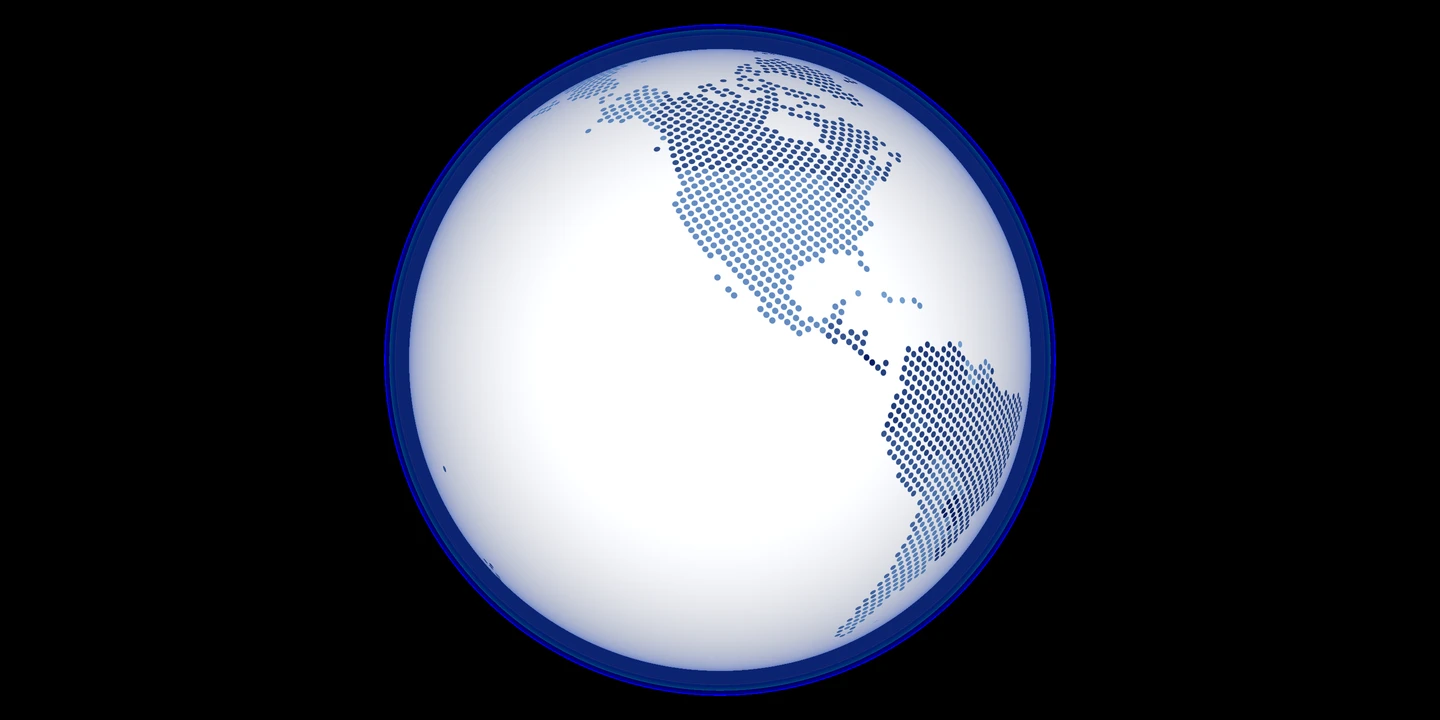
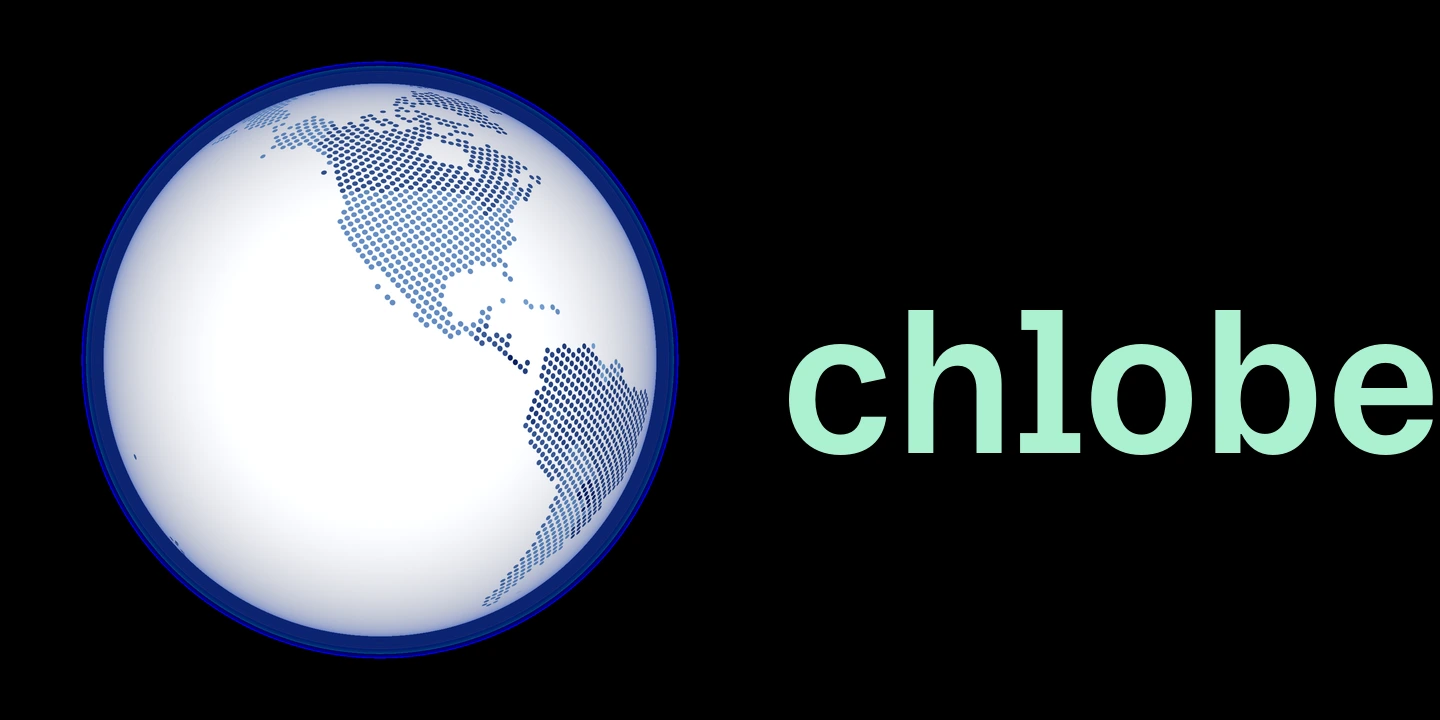
Use code-generated globe + title cover

diff --git a/src/content/projects/chlobe.md b/src/content/projects/chlobe.md
@@ -2,7 +2,7 @@
 name: "Chlobe"
 desc: "A 15KB React library for cobe-style choropleth globes, visualizing country-level data with labels, tooltips, & color ramps."
 cover: ./chlobe.webp
-coverAlt: "A dotted choropleth globe showing the Americas in shades of blue on a black background"
+coverAlt: "Dotted choropleth globe beside the word chlobe in mint green on black"
 url: "https://chlobe.lachlanjc.com"
 color: "#1d4ed8"
 year: 2026
